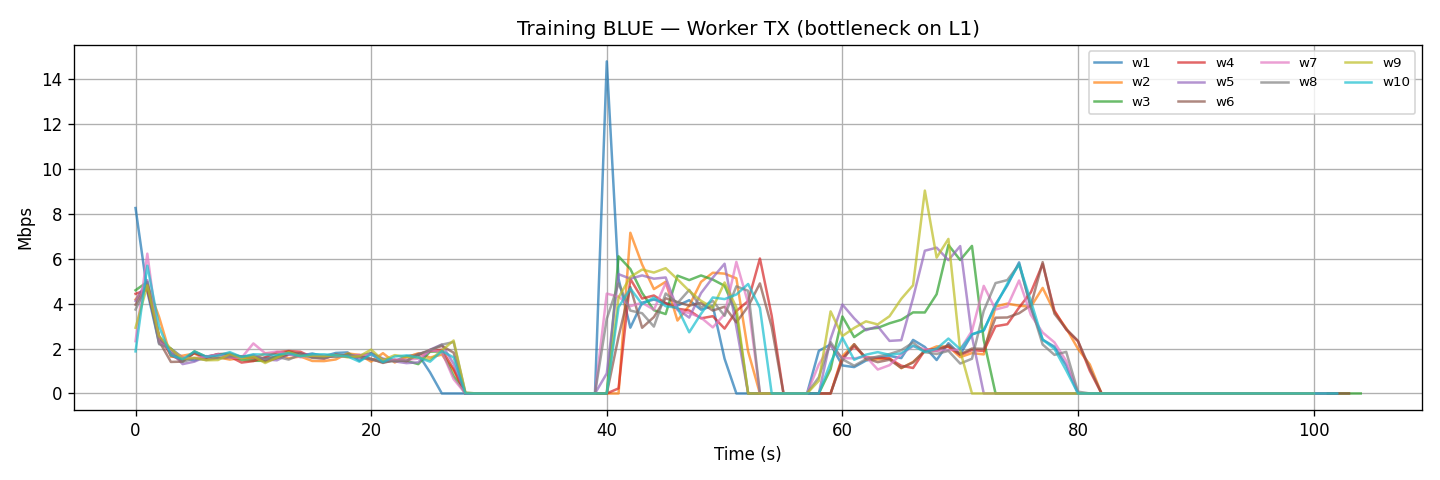
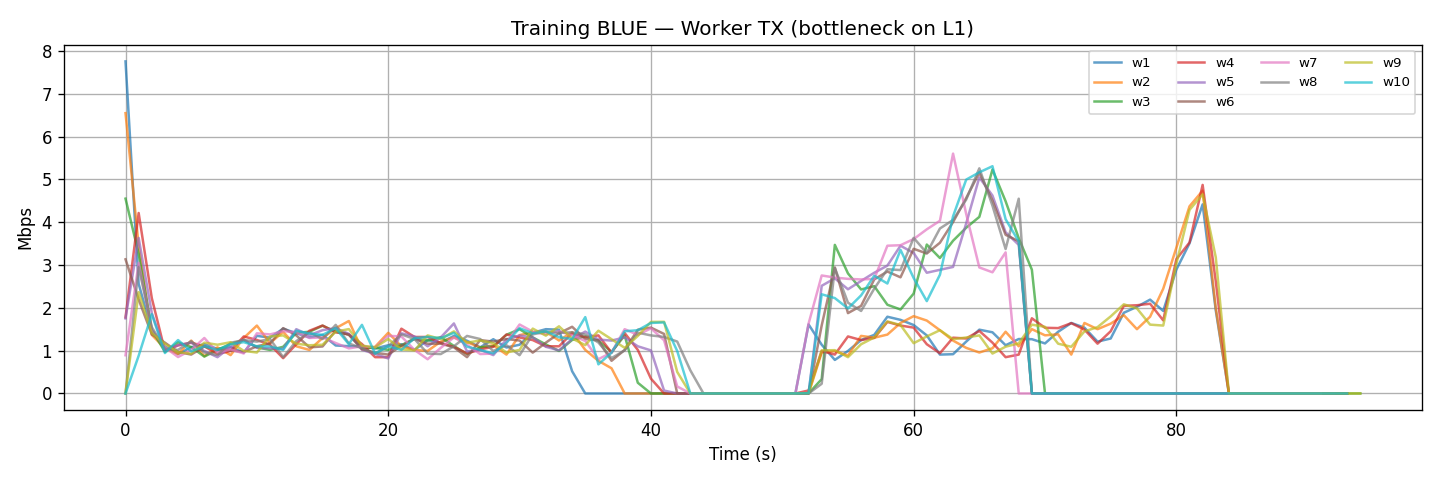
pulizia codice e aggiunta commenti

diff --git a/controller/pox/ext/ml_routing.py b/controller/pox/ext/ml_routing.py
@@ -9,32 +9,27 @@ from pox.lib.recoco import Timer
 
 log = core.getLogger()
 
-# --------------------------------------------------------------------------
-# Tunables
-# --------------------------------------------------------------------------
-POLL_INTERVAL   = 2       # s  - how often we pull flow stats (for Dv)
-REPORT_INTERVAL = 20      # s  - how often we print the spine distribution
-IDLE_TIMEOUT    = 10      # s  - a finished connection expires this long after
-HARD_TIMEOUT    = 120     # s    its last byte -> we read its final Dv then
-MIN_ROUND_GAP   = 5       # s  - connections closer than this = SAME round
-                          #      (filters iperf's control+data double connect)
-DV_MIN          = 500000  # bytes - ignore tiny control/ACK connections for Dv
-# "balanced" = load-aware ECMP driven by the training identity (Kv);
-# "single"   = force every flow onto ONE spine  (baseline for comparison).
-# This is only the STARTING mode: _report_distribution watches the spine
-# split and auto-promotes self.routing_mode "single" -> "balanced" the
-# first time it detects congestion (see UNEVEN_RATIO below).
-ROUTING_MODE    = "single"  # "balanced" or "single"
+POLL_INTERVAL   = 2       # statistiche flusso 
+REPORT_INTERVAL = 20      # distribuzione del carico tra gli spine
+IDLE_TIMEOUT    = 10      # terminazione della regola se non ci sono pacchetti per 10s
+HARD_TIMEOUT    = 120     # ultimo byte di un flusso -> termina la regola dopo 120s
+MIN_ROUND_GAP   = 5       # conns con lo stesso sport entro 5s -> stesso round
+DV_MIN          = 500000  # ignora le piccole connessioni di controllo/ACK per Dv
+#_report_distribution monitora la divisione dello spine
+# e promuove automaticamente self.routing_mode da "single" -> "balanced"
+ROUTING_MODE    = "single"  #forza ogni flusso su un solo spine (baseline per confronto).
 UNEVEN_RATIO    = 1.25   # max/min spine-load ratio above which we call it "uneven"
 
 
 class MLRoutingApp(object):
+    #teoria degli eventi di POX
     def __init__(self):
         core.openflow.addListeners(self)
         core.openflow_discovery.addListeners(self)
+        #topologia switch-switch e switch-host
         self.graph = {}               # dpid -> {neighbor_dpid: out_port}
         self.mac_to_location = {}      # mac  -> (dpid, port)
-
+        
         self.collectors = {
             IPAddr("10.0.1.1"): "blue",
             IPAddr("10.0.1.2"): "green",
@@ -42,37 +37,33 @@ class MLRoutingApp(object):
             IPAddr("10.0.1.4"): "yellow",
         }
 
-        # --- discovery / control state -------------------------------------
+        # discovery / control state 
         self.active_workers   = {v: set() for v in self.collectors.values()}
         self.training_start_t = {v: None  for v in self.collectors.values()}
         self.spine_load       = {v: defaultdict(int) for v in self.collectors.values()}
-        self.global_start     = None    # time the very first worker was seen
+        self.global_start     = None    # tempo in cui il primo worker è stato visto (per calcolare phi_v)
 
-        # --- reactive routing state ------------------------------------------
-        self.routing_mode = ROUTING_MODE   # mutable copy; _report_distribution may flip it
+        # reactive routing state 
+        self.routing_mode = ROUTING_MODE   # può cambiare runtime se si rileva congestione
 
-        # --- traffic-characterization state (connection based) -------------
-        self.worker_training  = {}               # worker_ip -> training name
-        self.conn_seen        = set()            # (worker_ip, tcp_src_port) already counted
-        self.round_start      = {}               # worker_ip -> time its last round began
-        self.first_round_start = {}              # worker_ip -> time of its very first round
-        self.round_count      = defaultdict(int)
-        self.Tv_samples       = defaultdict(list) # worker_ip -> [inter-round gaps]
+        # traffic-characterization state 
+        self.worker_training  = {}               # worker_ip -> nome del training
+        self.conn_seen        = set()            # insieme delle coppie (worker_ip, tcp_src_port) processate almeno una volta
+        self.round_start      = {}               # worker_ip -> timestamp dell'ultimo round iniziato per quel worker
+        self.first_round_start = {}              # worker_ip -> timestamp del primo round, mai più modificato
+        self.round_count      = defaultdict(int) # worker_ip → quanti round ha completato finora quel worker
+        self.Tv_samples       = defaultdict(list) # worker_ip -> [inter-round gaps] lista scarti temporali tra round successivi (per calcolare Tv)
         self.phi              = {}               # worker_ip -> phase offset
-        # Per-dpid tracking: a connection is "done" only when it has vanished from
-        # ALL switches that previously confirmed its existence.  Without this, the
-        # spine that does NOT carry a given flow sees it as absent on every poll and
-        # fires false "done" events, which reports Dv too early (Tv_samples still empty).
-        self.conn_dpids       = defaultdict(set)  # (wip, sport) -> set of dpids with rule
-        self.conn_bytes       = {}                 # (wip, sport) -> max byte_count seen
+        self.conn_dpids       = defaultdict(set)  # (wip, sport) -> insieme di dpid degli switch che hanno confermato che quel flusso è ancora vivo
+        self.conn_bytes       = {}                 # (wip, sport) -> byte_count più alto osseravto
 
         Timer(POLL_INTERVAL,   self._request_stats,       recurring=True)
         Timer(REPORT_INTERVAL, self._report_distribution, recurring=True)
         log.info("ML Routing up  |  starting mode=%s", self.routing_mode)
 
-    # ======================================================================
-    # Topology bookkeeping
-    # ======================================================================
+     # Contabilità della topologia
+    
+    # quando uno switch stabilisce il canale di controllo col controller
     def _handle_ConnectionUp(self, event):
         self.graph.setdefault(event.dpid, {})
         msg = of.ofp_flow_mod()
@@ -80,7 +71,7 @@ class MLRoutingApp(object):
         msg.command = of.OFPFC_DELETE
         event.connection.send(msg)
         log.info("Switch connected: %s", dpid_to_str(event.dpid))
-
+    #ogni link scoperto aggiorna il grafo in entrambe le direzioni
     def _handle_LinkEvent(self, event):
         lk = event.link
         if event.added:
@@ -95,9 +86,8 @@ class MLRoutingApp(object):
         # spines reach every leaf (degree > 2); leaves reach only the 2 spines.
         return len(self.graph.get(dpid, {})) > 2
 
-    # ======================================================================
-    # Path computation
-    # ======================================================================
+    # Calcolo dei cammini 
+    #BFS
     def _all_shortest_paths(self, src, dst):
         if src == dst:
             return [[src]]
@@ -123,7 +113,7 @@ class MLRoutingApp(object):
             if self._is_spine(n):
                 return n
         return None
-
+    # funzione di decisione del percorso da prendere tra i cammini a costo uguale
     def _pick_path(self, src, dst, training, key):
         """Choose one equal-cost path.
 
@@ -157,13 +147,8 @@ class MLRoutingApp(object):
                 best = (l, spine, path)
         return best[2], best[1]
 
-    # ======================================================================
-    # Traffic characterization  (Kv, Dv, Tv, phi_v)
-    # ----------------------------------------------------------------------
-    #  Kv       : number of distinct workers seen for the training (PacketIn)
-    #  Tv, phi  : from NEW connections (each round = new TCP src port -> PacketIn)
-    #  Dv       : final byte_count of a completed connection (~ D per round)
-    # ======================================================================
+    # Caratterizzazione del traffico 
+    # ogni round di iperf3 apre una connessione TCP nuova
     def _note_connection(self, training, wip, sport):
         """Called on the first packet of a worker->collector flow."""
         key = (wip, sport)
@@ -189,11 +174,11 @@ class MLRoutingApp(object):
         else:
             log.debug("[DBG] %s sport=%d  SAME round (gap=%.3fs < %ds)",
                       wip, sport, now - last, MIN_ROUND_GAP)
-
+    #richiesta di statistiche di flusso
     def _request_stats(self):
         for c in core.openflow.connections:
             c.send(of.ofp_stats_request(body=of.ofp_flow_stats_request()))
-
+    #filtra le statistiche ai soli flussi TCP/IPv4 diretti a un collector noto
     def _handle_FlowStatsReceived(self, event):
         dpid = event.connection.dpid
         here = set()
@@ -208,22 +193,22 @@ class MLRoutingApp(object):
             key = (wip, m.tp_src)
             here.add(key)
             self.conn_dpids[key].add(dpid)
-            # keep the largest byte_count seen across all switches for this flow
+            # aggiorna il byte_count più alto osservato per questo flusso
             if stat.byte_count > self.conn_bytes.get(key, 0):
                 self.conn_bytes[key] = stat.byte_count
             self.worker_training[wip] = self.collectors[m.nw_dst]
 
-        # Flows THIS switch previously had but no longer reports -> rule expired here.
+        # flussi che questo switch segnalava prima ma non più
         # Only fire "done" when the flow has disappeared from ALL switches that had it.
         for key in list(self.conn_dpids):
             if dpid not in self.conn_dpids[key]:
-                continue         # this switch never had the flow, skip
+                continue         # questo switch non lo ha mai avuto, salta
             if key in here:
-                continue         # still alive on this switch
+                continue          #ancora vivo su questo switch
             self.conn_dpids[key].discard(dpid)
             if self.conn_dpids[key]:
-                continue         # still alive on at least one other switch
-            # Gone from every switch that had it -> connection finished
+                continue         # ancora vivo su almeno un altro switch
+            # connessione conclusa (sparito da ogni switch che l'aveva)
             dv = self.conn_bytes.pop(key, 0)
             del self.conn_dpids[key]
             if dv < DV_MIN:
@@ -233,10 +218,10 @@ class MLRoutingApp(object):
             if training is None:
                 continue
             rc = self.round_count[wip]
-            # Primary Tv: mean of per-interval samples collected by _note_connection
+            # Tv principale: media dei campioni raccolti da _note_connection
             Tv = (sum(self.Tv_samples[wip]) / len(self.Tv_samples[wip])
                   if self.Tv_samples[wip] else None)
-            # Fallback Tv: total span / number of intervals (more robust)
+            ## Tv di riserva: durata totale / numero di intervalli
             if Tv is None and rc >= 2 and wip in self.first_round_start:
                 Tv = ((self.round_start[wip] - self.first_round_start[wip])
                       / (rc - 1))
@@ -248,7 +233,7 @@ class MLRoutingApp(object):
                      "%.1fs" % Tv if Tv else "?",
                      self.phi.get(wip, 0.0),
                      rc)
-
+    
     def _report_distribution(self):
         congested = False
         for t, load in self.spine_load.items():
@@ -271,15 +256,14 @@ class MLRoutingApp(object):
                     congested = True
             log.info("[%s] Kv=%d | %s | %s", t.upper(), kv, parts, status)
 
-        # Reactive control: self-heal out of "single" once real imbalance is seen.
+        # auto-risparatore da single se rilevato uno squilibrio
         if congested and self.routing_mode == "single":
             self.routing_mode = "balanced"
             log.warning("[AUTO] congestion detected -> switching ROUTING_MODE "
                         "'single' -> 'balanced'")
 
-    # ======================================================================
     # Forwarding
-    # ======================================================================
+    #MAC learning passivo
     def _handle_PacketIn(self, event):
         pkt = event.parsed
         if not pkt.parsed:
@@ -291,11 +275,11 @@ class MLRoutingApp(object):
                       for nb in self.graph.get(dpid, {}))
         if not sw_link and not src_mac.is_multicast:
             self.mac_to_location[src_mac] = (dpid, in_port)
-
+        #metodo di navigazione dei pacchetti incapsulati di POX
         ip4 = pkt.find("ipv4")
         tcp = pkt.find("tcp") if ip4 else None
 
-        # ---- worker discovery + round detection --------------------------
+        # scoperta dei worker e rilevamento dei round
         if ip4 and tcp and ip4.dstip in self.collectors:
             t_name = self.collectors[ip4.dstip]
             wip = ip4.srcip
@@ -308,7 +292,7 @@ class MLRoutingApp(object):
                 log.info("[%s] WORKER DISCOVERED %s  Kv=%d",
                          t_name.upper(), wip, len(self.active_workers[t_name]))
             self._note_connection(t_name, str(wip), tcp.srcport)
-
+        #se la destinazione non e ancora nota si fa flood
         if dst_mac.is_multicast or dst_mac not in self.mac_to_location:
             self.flood_to_hosts(event)
             return
@@ -357,7 +341,7 @@ class MLRoutingApp(object):
         m2.in_port = in_port
         m2.actions.append(of.ofp_action_output(port=op_first))
         event.connection.send(m2)
-
+    #manda il pacchetto grezzo fuori da ogni porta di ogni switch
     def flood_to_hosts(self, event):
         raw = event.parsed.pack()
         for conn in core.openflow.connections:
@@ -375,6 +359,6 @@ class MLRoutingApp(object):
                     msg.actions.append(of.ofp_action_output(port=p))
                 conn.send(msg)
 
-
+#punto di ingresso del modulo POX
 def launch():
     core.registerNew(MLRoutingApp)
